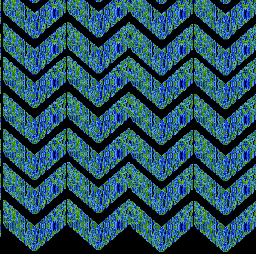
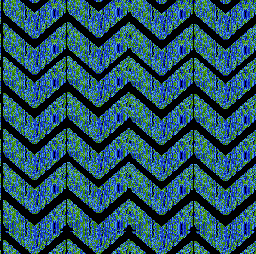
Swag added to turbo

Changed region(s): [[0.0, 0.9094, 1.0, 1.0]]

diff --git a/Assets/Scripts/TurboChange.cs b/Assets/Scripts/TurboChange.cs
@@ -1,0 +1,20 @@
+using UnityEngine;
+using System.Collections;
+
+public class TurboChange : MonoBehaviour {
+
+	private Renderer rend;
+	private float offset;
+	// Use this for initialization
+	void Start () {
+		rend = GetComponent<Renderer>();
+	}
+	
+	// Update is called once per frame
+	void Update () {
+		offset += Time.deltaTime;
+
+		rend.material.SetTextureOffset("_MainTex", new Vector2(0,offset));
+
+	}
+}
